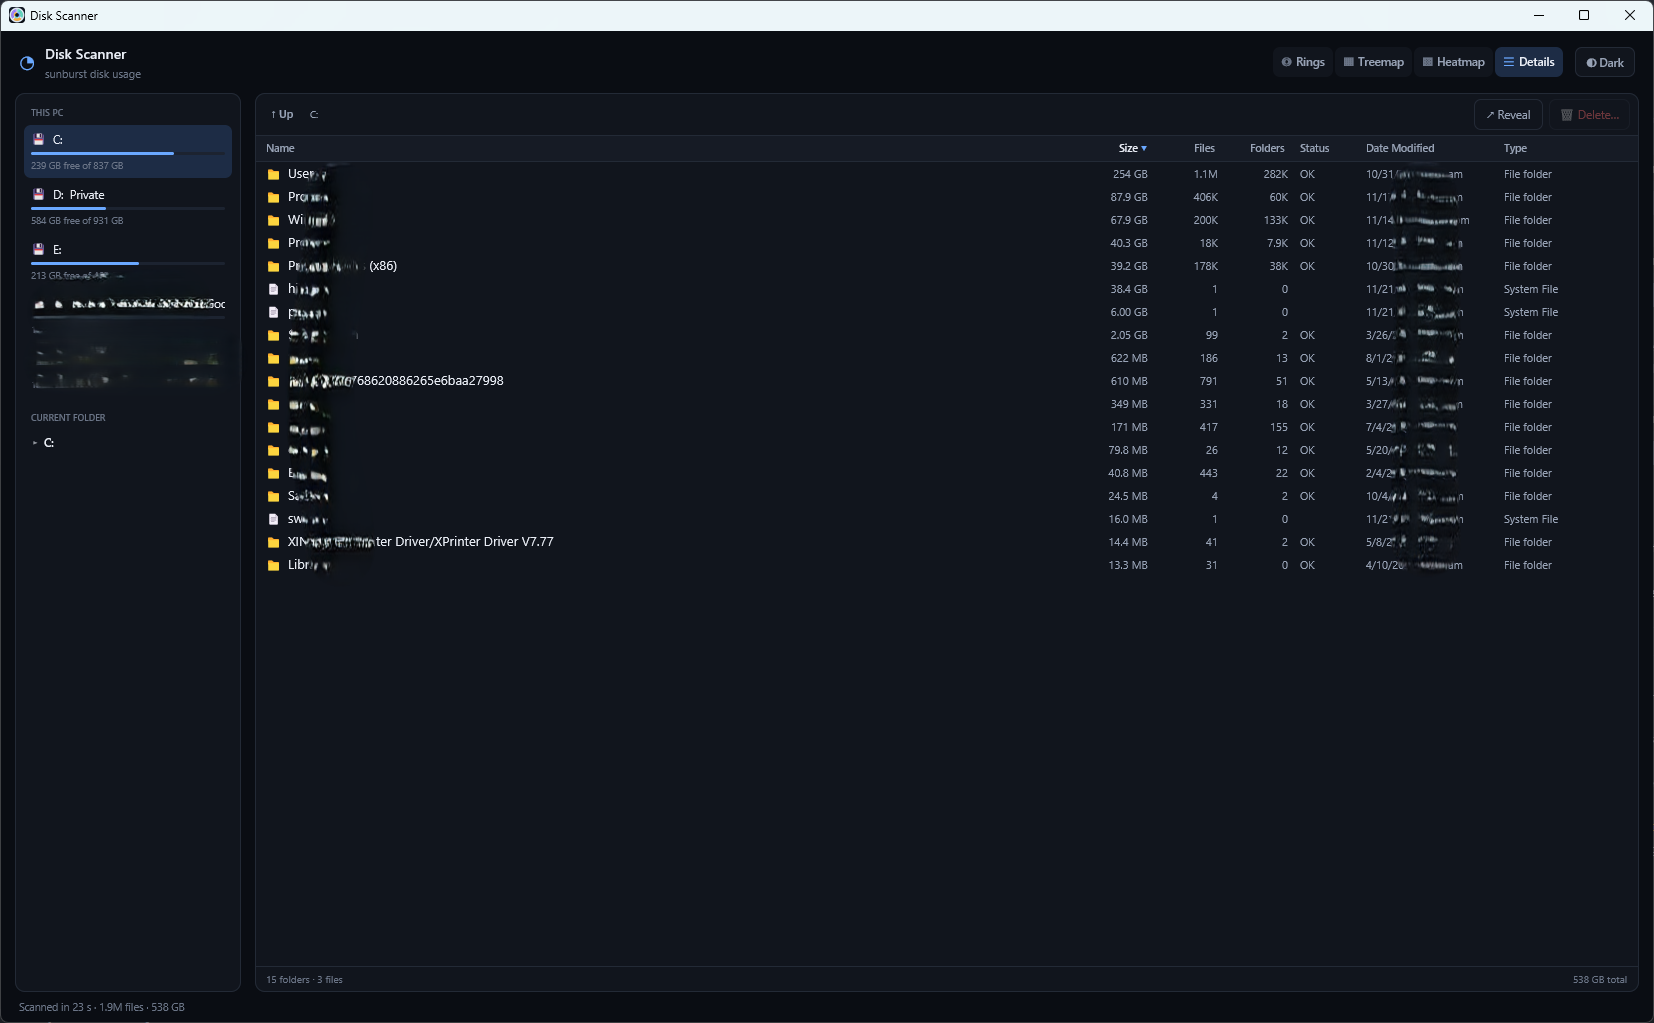
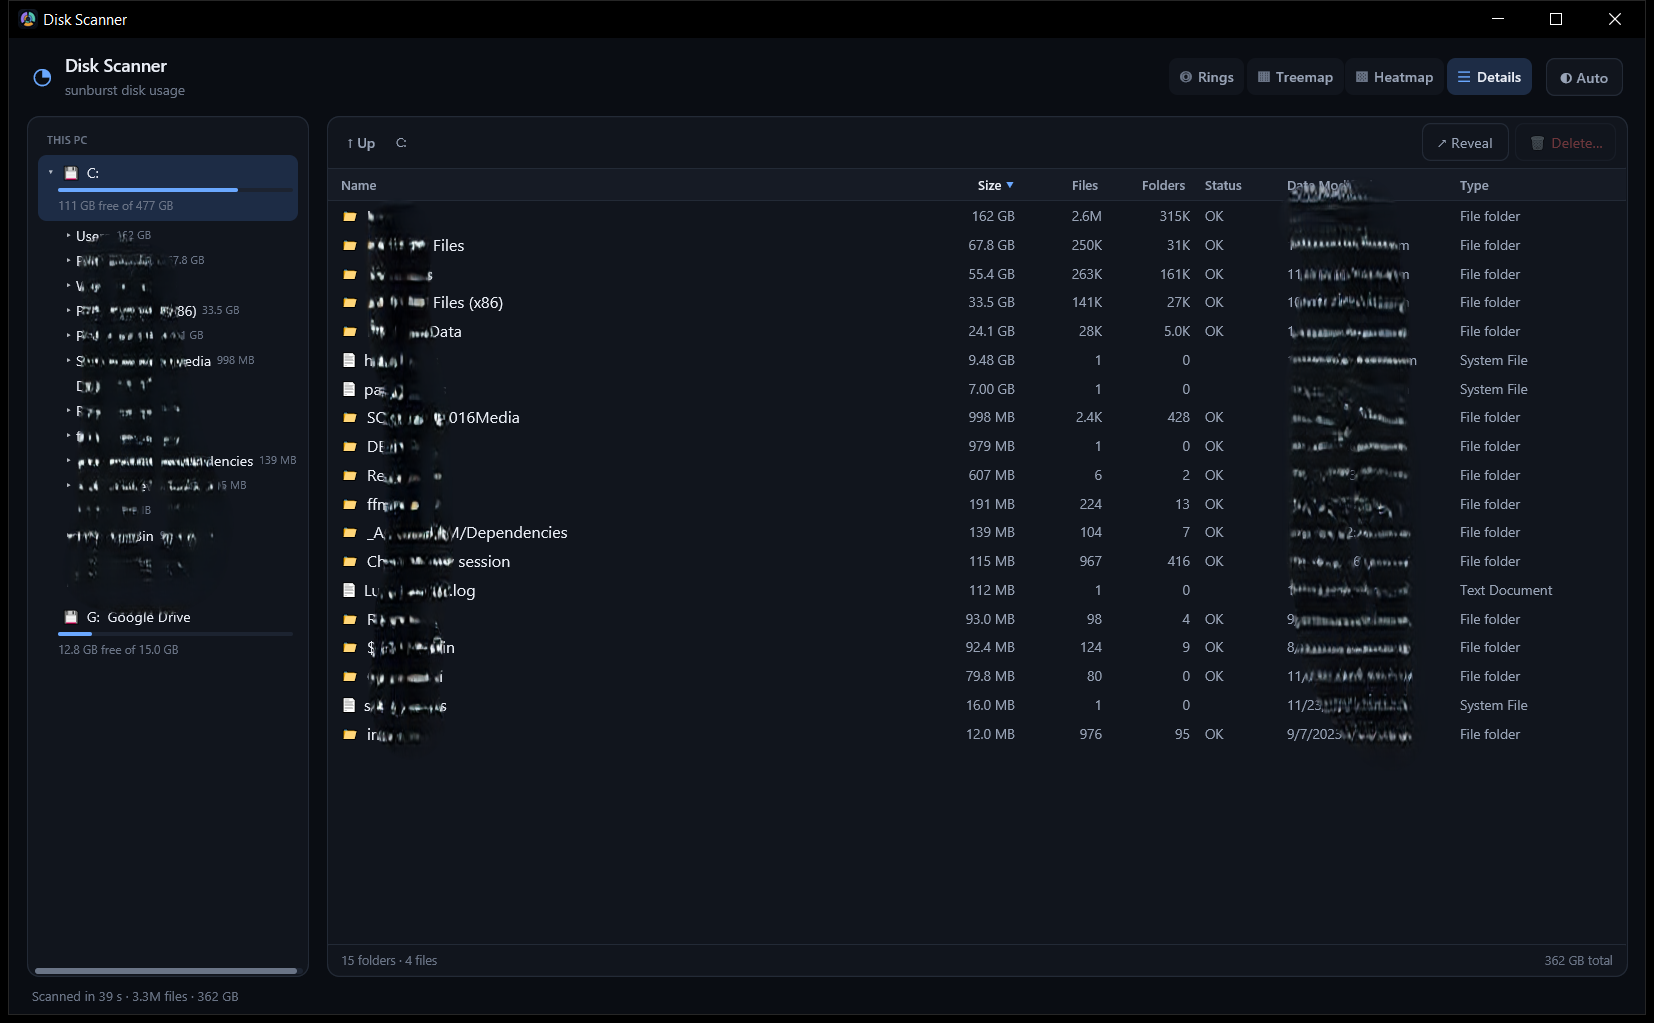
Update the README screenshots for the navigation tree
Recapture the four views at 1654x1023 in the dark theme, so the folder tree in the navigation pane and the pinned usage bars are what a reader sees first. Reword the navigation-pane bullet to describe the tree it now is.

diff --git a/README.md b/README.md
@@ -39,8 +39,9 @@ Building from source — including Intel Macs — is described [below](#building
     a thousand small files stand out as clearly as one big folder.
   - **Details** — a sortable table of the open folder: name, size, file and folder counts,
     status, date modified and type. Click a header to sort, double-click or `Enter` to open.
-- **Navigation pane** — the volumes with their free and total space and a usage bar, then the
-  chain of folders above the open one, so any drive or ancestor is one click away.
+- **Navigation pane** — the volumes with their free and total space and a usage bar, and under
+  each one a tree of its folders, opened down to the folder on screen, so any drive, ancestor
+  or sibling folder is one click away.
 - **Size or file count** — the chart can be weighted either way; the details table shows
   both, so the toggle is hidden there.
 - **Breakdown panel** — the biggest items in the open folder, colour-matched to the chart and
